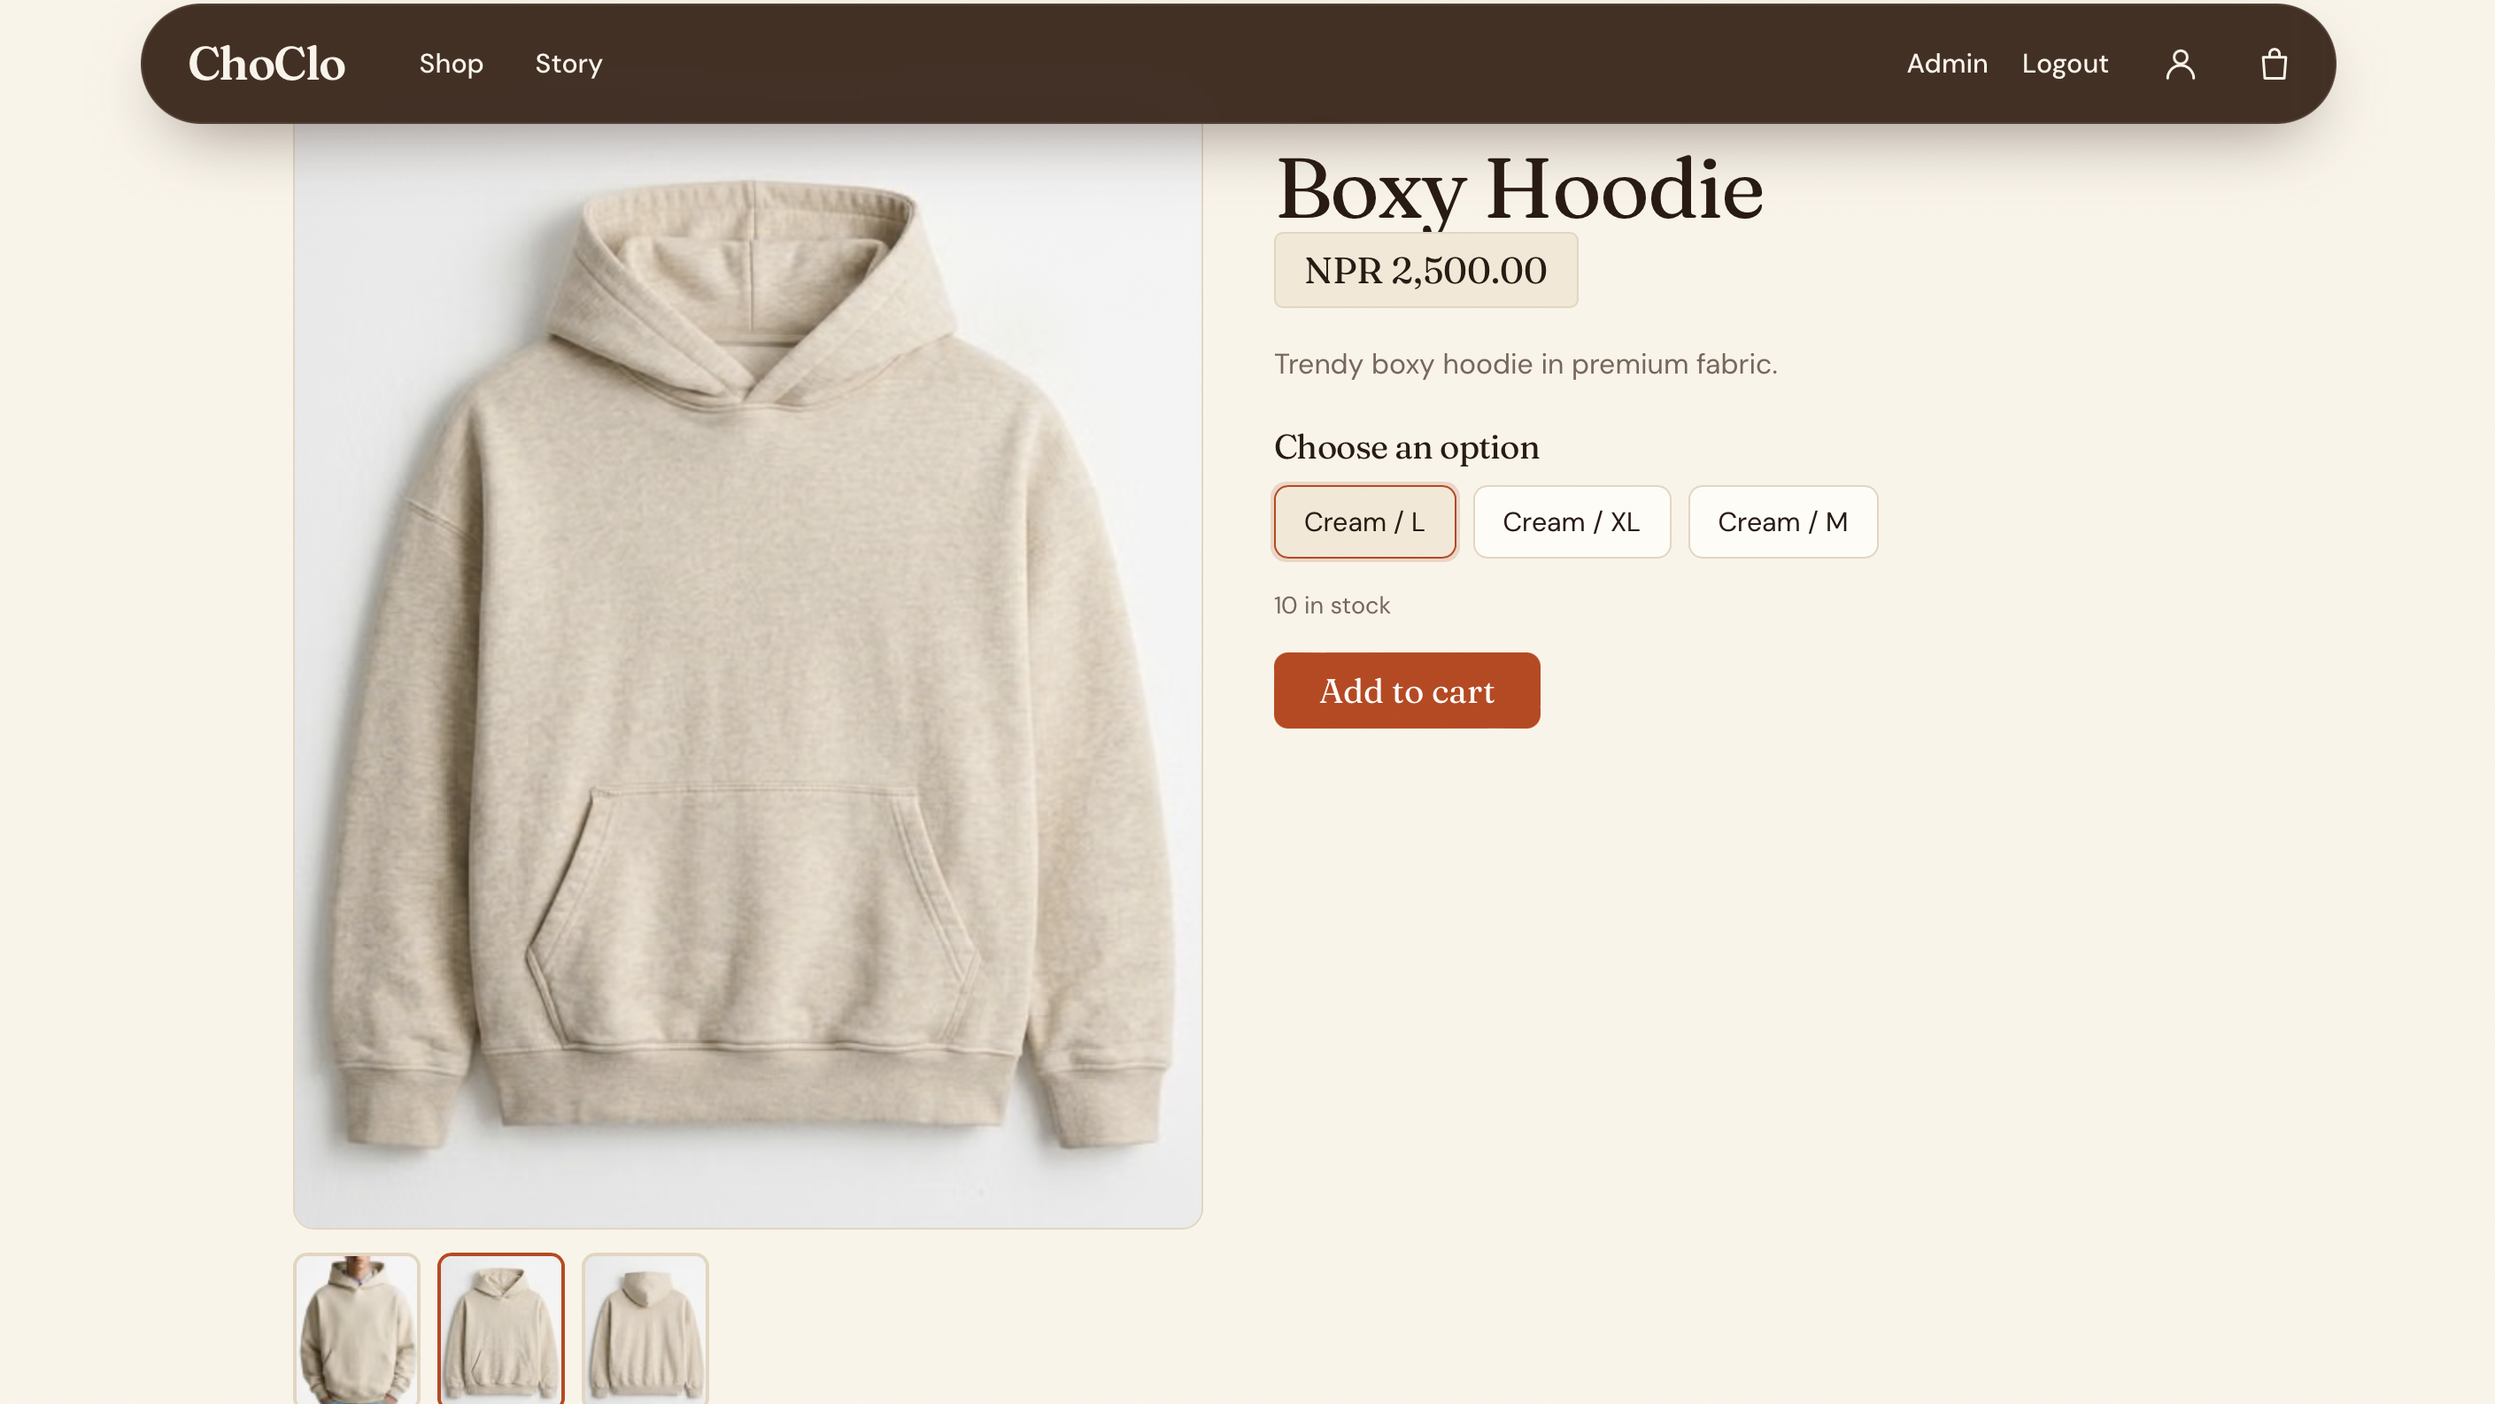
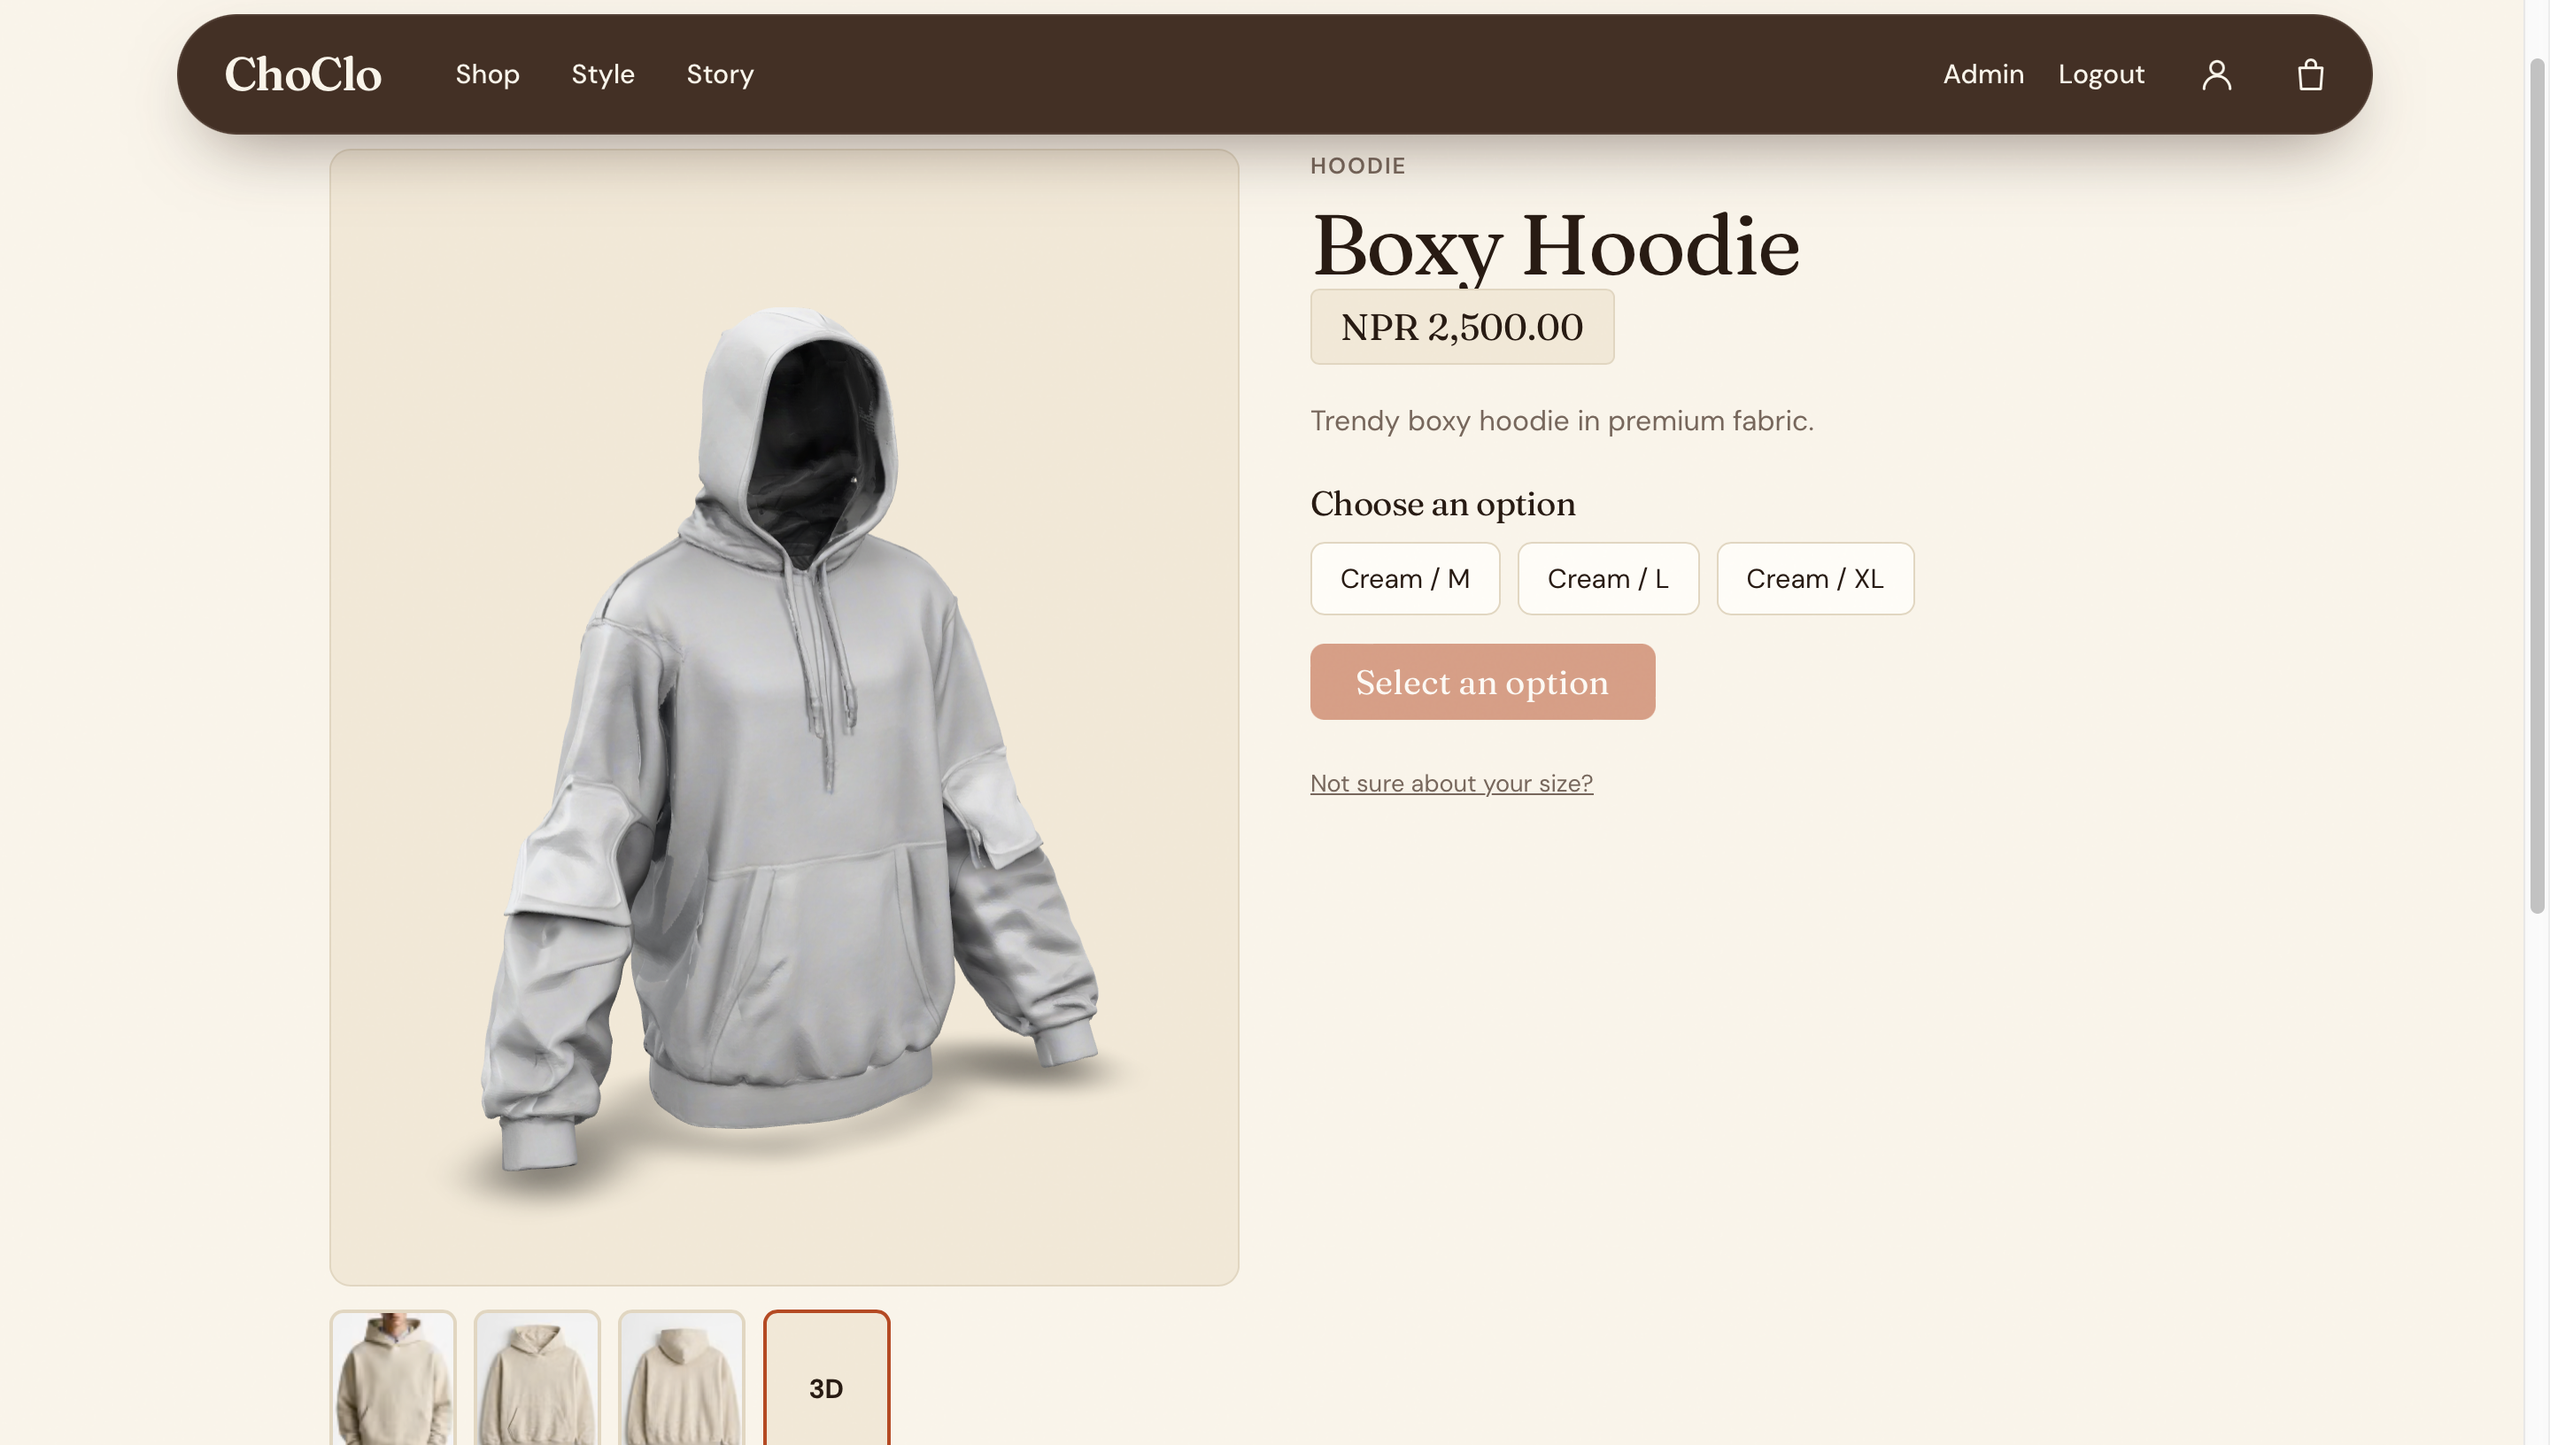
Updated ReadMe

Changed region(s): [[0.0312, 0.0, 0.9368, 1.0], [0.9681, 0.0309, 0.9993, 0.6179]]

diff --git a/README.md b/README.md
@@ -1,15 +1,16 @@
 # ChoClo
 
-A full-stack clothing store built from scratch: customers browse products, pick a size and color, check out with cash on delivery, and follow their orders. Shop owners manage products, stock, images and orders from an admin panel.
+A full-stack clothing store built from scratch: customers browse products, get AI-powered style and size recommendations, view products in 3D, pick a size and color, check out with cash on delivery, and follow their orders. Shop owners manage products, stock, images, 3D models and orders from an admin panel.
 
-> **Live site:** ToDo
+> **Live site:** [cho-clo.vercel.app](https://cho-clo.vercel.app)
 > **Repository:** https://github.com/PrerakStha/ChoClo/
 
-![Home page](docs/screenshots/home.png)
 ![Home page](docs/screenshots/home.png)
 ![Products page](docs/screenshots/products.png)
 ![Products Detail page](docs/screenshots/products1.png)
 ![Admin page](docs/screenshots/admin.png)
+![AI Recommend](docs/screenshots//AIRecommend.png)
+![AI Answer](docs/screenshots/AIAnswer.png)
 
 ## Features
 
@@ -17,6 +18,11 @@ A full-stack clothing store built from scratch: customers browse products, pick 
 - Product listing with a main image and a second image that fades in on hover
 - Product page with an image gallery, selectable size and color, and live stock
 - Responsive home page with a header that changes as you scroll, and a footer with a live Nepal clock
+
+**AI and 3D**
+- Personalised style recommendations from the Google Gemini API, based on the customer's skin, hair and body structure
+- Size recommendations based on the customer's fit preferences
+- Interactive 3D product viewer built with Google's `model-viewer`; admins upload a GLB model for each product
 
 **Accounts**
 - Register, log in and log out
@@ -31,7 +37,7 @@ A full-stack clothing store built from scratch: customers browse products, pick 
 
 **Admin panel** (admin accounts only)
 - Create, edit and delete products with sizes, colors and stock
-- Upload, reorder and delete product images (stored on Cloudinary)
+- Upload, reorder and delete product images (stored on Cloudinary) and attach GLB 3D models
 - Manage categories
 - View all orders and move them through statuses; cancelling an order returns its stock
 
@@ -45,7 +51,10 @@ A full-stack clothing store built from scratch: customers browse products, pick 
 | ORM | Prisma 7 with the `pg` driver adapter |
 | Validation | Zod |
 | Auth | JWT in an `httpOnly` cookie, bcrypt |
+| AI | Google Gemini API |
+| 3D | Google `model-viewer`, GLB models |
 | Images | Cloudinary, multer |
+| Hosting | Vercel (web) |
 
 ## Project structure
 
@@ -76,11 +85,12 @@ ChoClo/
 - Node.js (current LTS)
 - A PostgreSQL database (a free Neon project works well)
 - A Cloudinary account (for product images)
+- A Google Gemini API key (for recommendations)
 
 ### 1. Clone and install
 
 ```bash
-git clone <your-repo-url>
+git clone https://github.com/PrerakStha/ChoClo.git
 cd ChoClo
 
 cd api && npm install
@@ -99,6 +109,7 @@ FRONTEND_URL="http://localhost:3000"
 CLOUDINARY_CLOUD_NAME="..."
 CLOUDINARY_API_KEY="..."
 CLOUDINARY_API_SECRET="..."
+GEMINI_API_KEY="..."
 ```
 
 Create `web/.env.local`:
@@ -151,14 +162,4 @@ Register a normal account on the site, then open `npx prisma studio` and change 
 - **JWT in an `httpOnly` cookie** instead of `localStorage`, so injected scripts cannot steal the session. The `sameSite` attribute limits cross-site requests.
 - **Input validation with Zod** on every request body, which also strips unexpected fields such as `role`.
 - **Layered backend** (routes, controllers, services) so database code stays out of request handlers.
-
-## Roadmap
-
-- [ ] Search, filters and sorting
-- [ ] Online payments (eSewa, Khalti)
-- [ ] Multi-currency prices for international customers
-- [ ] 3D model viewer for products
-- [ ] AI-powered size and color recommendations
-- [ ] Rate limiting and security headers
-- [ ] Order emails
 
